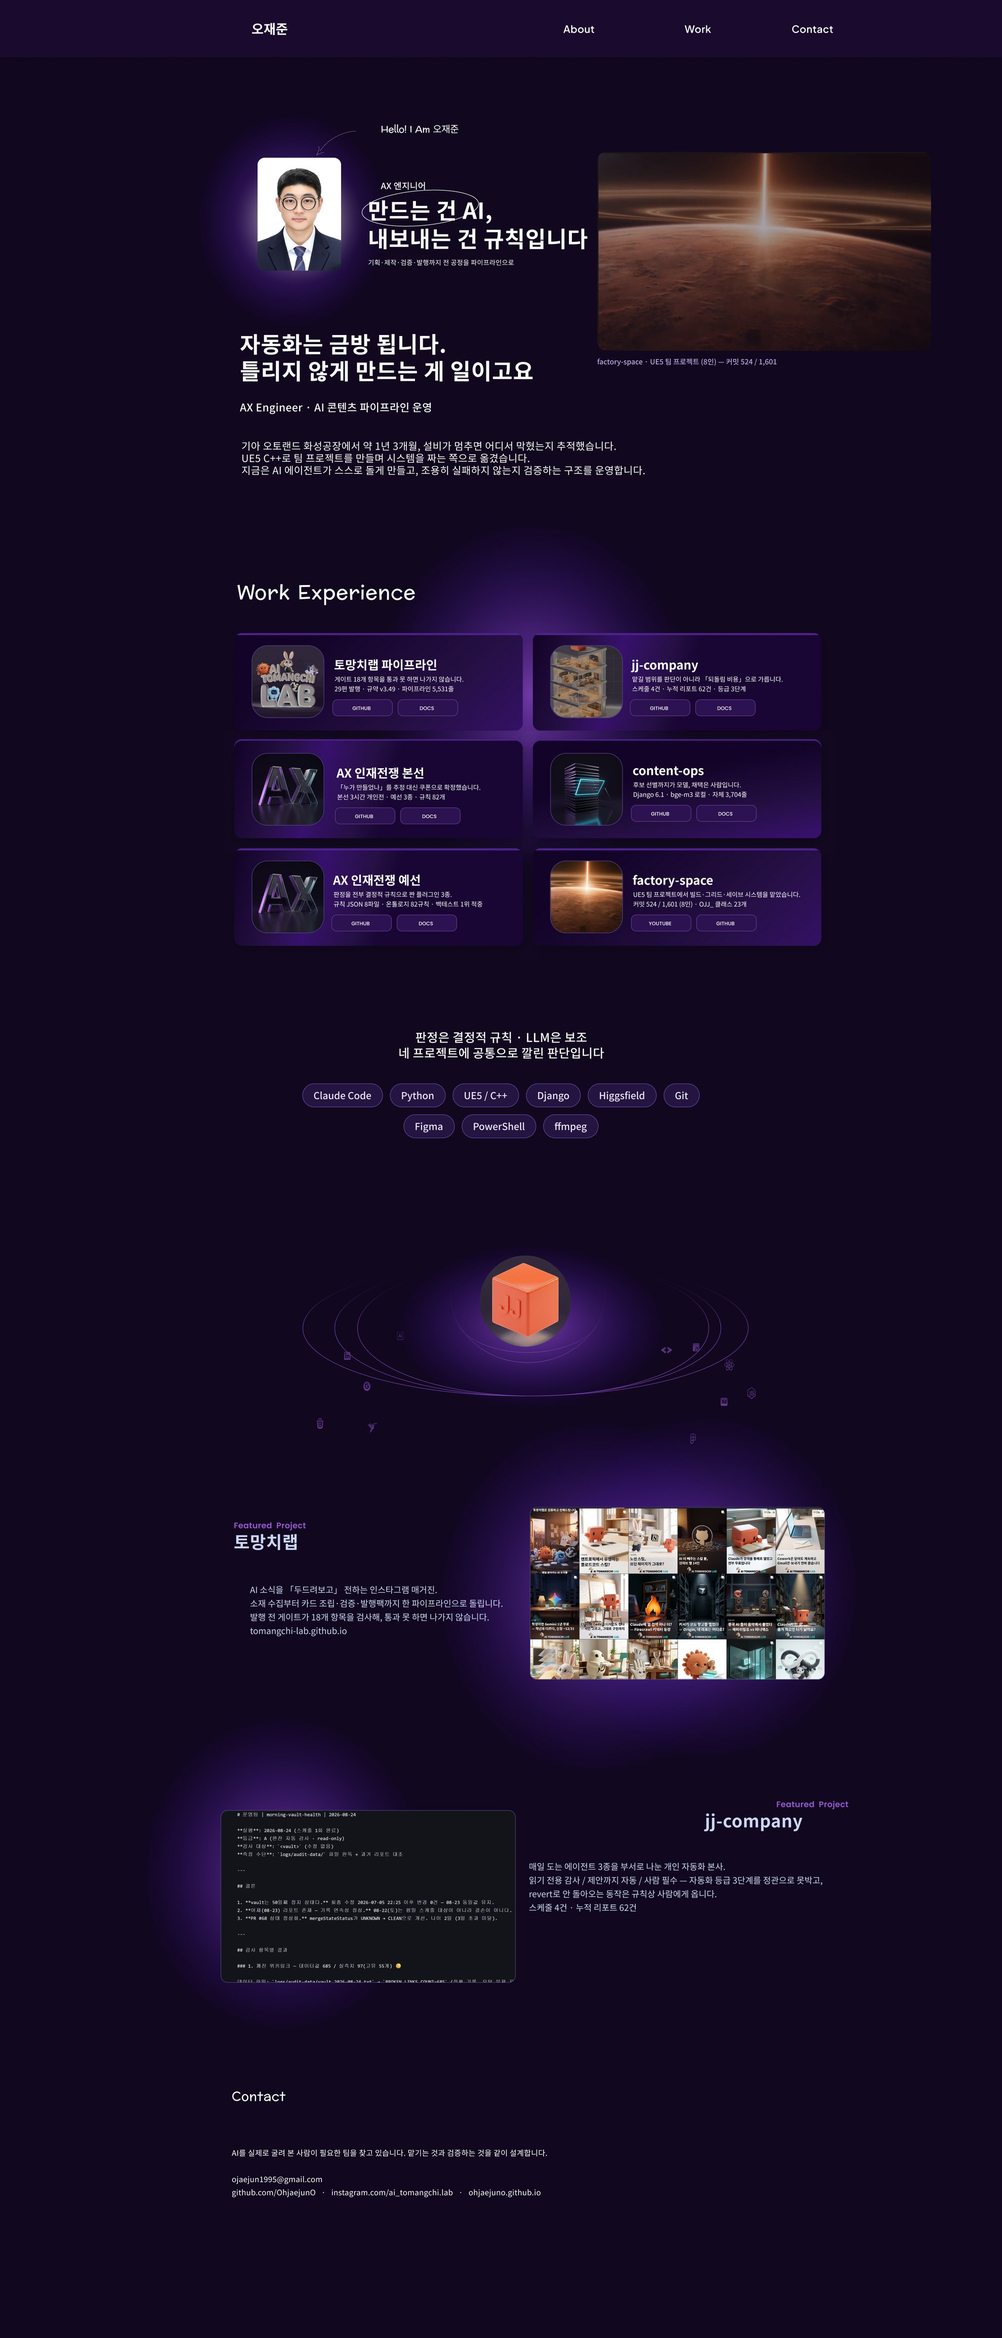
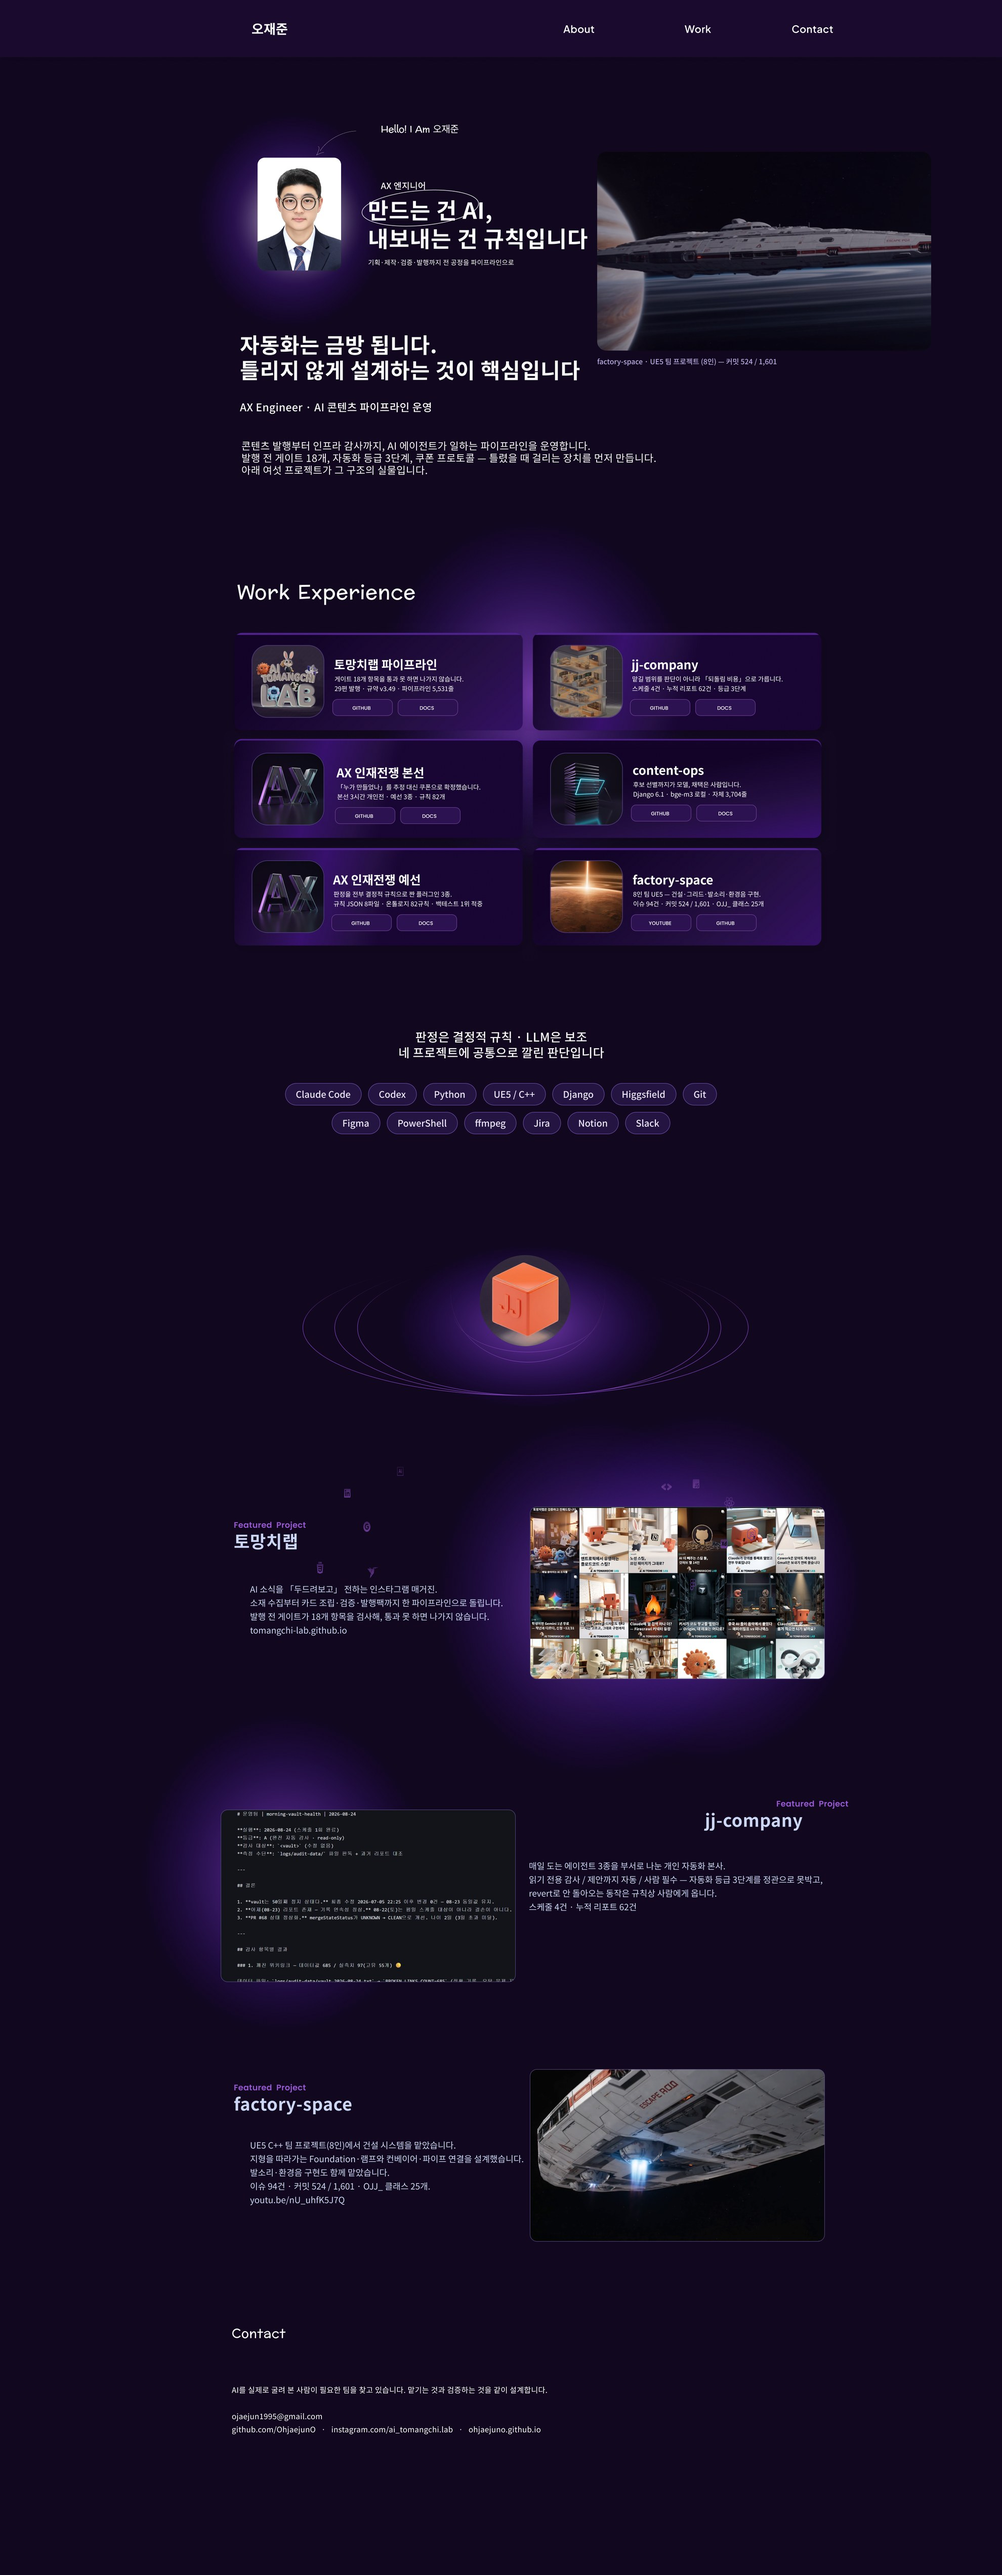
feat: 원페이지 최종 갱신 — Featured 3개·네비 앵커·이슈 실측 반영
히어로 시네마틱 스틸, Featured ③ factory-space 신설,
factory-space 담당 서술을 이슈 94건 실측으로 정정(세이브 제외),
스킬 알약 13개, 소개 문단·앵커 id 추가.

Claude-Session: https://claude.ai/code/session_01EsBE2G8EFyKgNvKtkBS3fG

diff --git a/public/p/groupby/index.html b/public/p/groupby/index.html
@@ -31,12 +31,17 @@
 </head>
 <body>
 
-<div class="sheet">
-  <img src="onepage.jpg" alt="오재준 AX Engineer 포트폴리오 원페이지" width="1980" height="4620">
+<div class="sheet" id="top">
+  <img src="onepage.jpg" alt="오재준 AX Engineer 포트폴리오 원페이지" width="1980" height="5090">
 </div>
 
 <main>
-  <h2>바로 열어볼 수 있는 것</h2>
+  <h2 id="about">소개</h2>
+  <p class="lede">콘텐츠 발행부터 인프라 감사까지, AI 에이전트가 일하는 파이프라인을 운영합니다.
+  발행 전 게이트 18개, 자동화 등급 3단계, 쿠폰 프로토콜 — 틀렸을 때 걸리는 장치를 먼저 만듭니다.
+  아래 여섯 프로젝트가 그 구조의 실물입니다.</p>
+
+  <h2 id="work">바로 열어볼 수 있는 것</h2>
   <p class="lede">위 지면에 적힌 프로젝트의 저장소와 문서입니다. 모두 접근 확인을 마쳤습니다.</p>
 
   <div class="links">
@@ -72,7 +77,7 @@
 
     <div class="card">
       <h3>factory-space</h3>
-      <div class="d">8인 팀 UE5 프로젝트에서 빌드·그리드·세이브 시스템을 맡았습니다. 커밋 524 / 1,601 · OJJ_ 클래스 23개.</div>
+      <div class="d">8인 팀 UE5 프로젝트에서 건설·그리드 시스템을 맡았습니다. 발소리·환경음 구현도 함께 맡았습니다. 이슈 94건 · 커밋 524 / 1,601 · OJJ_ 클래스 25개.</div>
       <a href="https://youtu.be/nU_uhfK5J7Q">플레이 영상</a>
       <a href="https://github.com/PU3-Lab/factory-space">GitHub</a>
       <a href="https://ohjaejuno.github.io/blog/factory-sim/01-grid-system-overview/">개발 기록</a>
@@ -90,7 +95,7 @@
   <p class="note">이 페이지는 검색에 노출되지 않는 비공개 경로입니다(<code>robots.txt</code> 제외 대상).
   지면에 적은 수치는 전부 실물에서 센 값이고, 확인하지 못한 것은 적지 않았습니다.</p>
 
-  <div class="foot">
+  <div class="foot" id="contact">
     오재준 · AX Engineer · AI 콘텐츠 파이프라인 운영<br>
     <a href="mailto:ojaejun1995@gmail.com">ojaejun1995@gmail.com</a> ·
     <a href="https://github.com/OhjaejunO">github.com/OhjaejunO</a> ·
